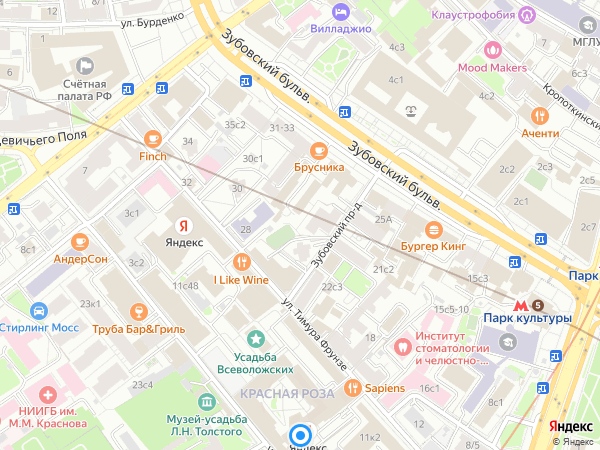
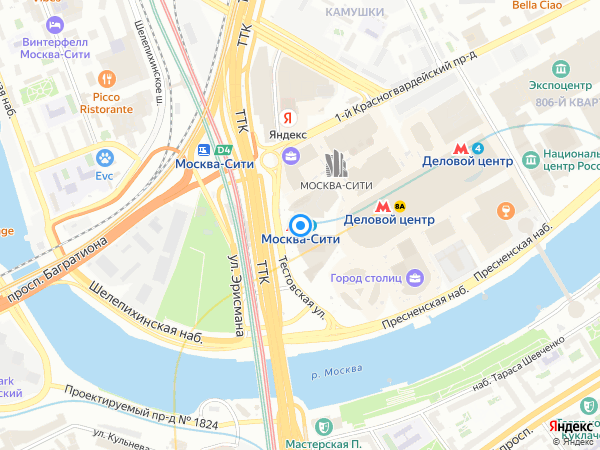
task 7

diff --git a/main.py b/main.py
@@ -13,8 +13,9 @@ class Map(QMainWindow):
     def __init__(self):
         super().__init__()
         uic.loadUi('map.ui', self)
-        self.theme.clicked.connect(self.change_theme)
-        self.btn_search.clicked.connect(self.search)
+        self.theme_btn.clicked.connect(self.change_theme)
+        self.search_btn.clicked.connect(self.search)
+        self.reset_btn.clicked.connect(self.reset)
 
         # basic setup
         self.ll = '37.587998,55.733723'
@@ -73,17 +74,22 @@ class Map(QMainWindow):
 
     def change_theme(self):
         if self.current_theme == "light":
-            self.theme.setText("light")
+            self.theme_btn.setText("light")
             self.current_theme = "dark"
         else:
-            self.theme.setText("dark")
+            self.theme_btn.setText("dark")
             self.current_theme = "light"
         self.show_map()
 
     def search(self):
         self.toponym = self.find_toponym(self.request.text())
         self.ll = ','.join(self.toponym["Point"]["pos"].split())
+        self.pt = self.ll
         self.spn = get_toponym_size(self.toponym)
+        self.show_map()
+
+    def reset(self):
+        self.pt = None
         self.show_map()
 
     def find_toponym(self, toponym_to_find):
@@ -113,9 +119,11 @@ class Map(QMainWindow):
             "ll": self.ll,
             "spn": self.spn,
             "apikey": apikey,
-            "pt": f"{self.pt},round",
             "theme": self.current_theme
         }
+
+        if self.pt is not None:
+            map_params["pt"] = f"{self.pt},round"
 
         response = requests.get(map_api_server, params=map_params)
 
